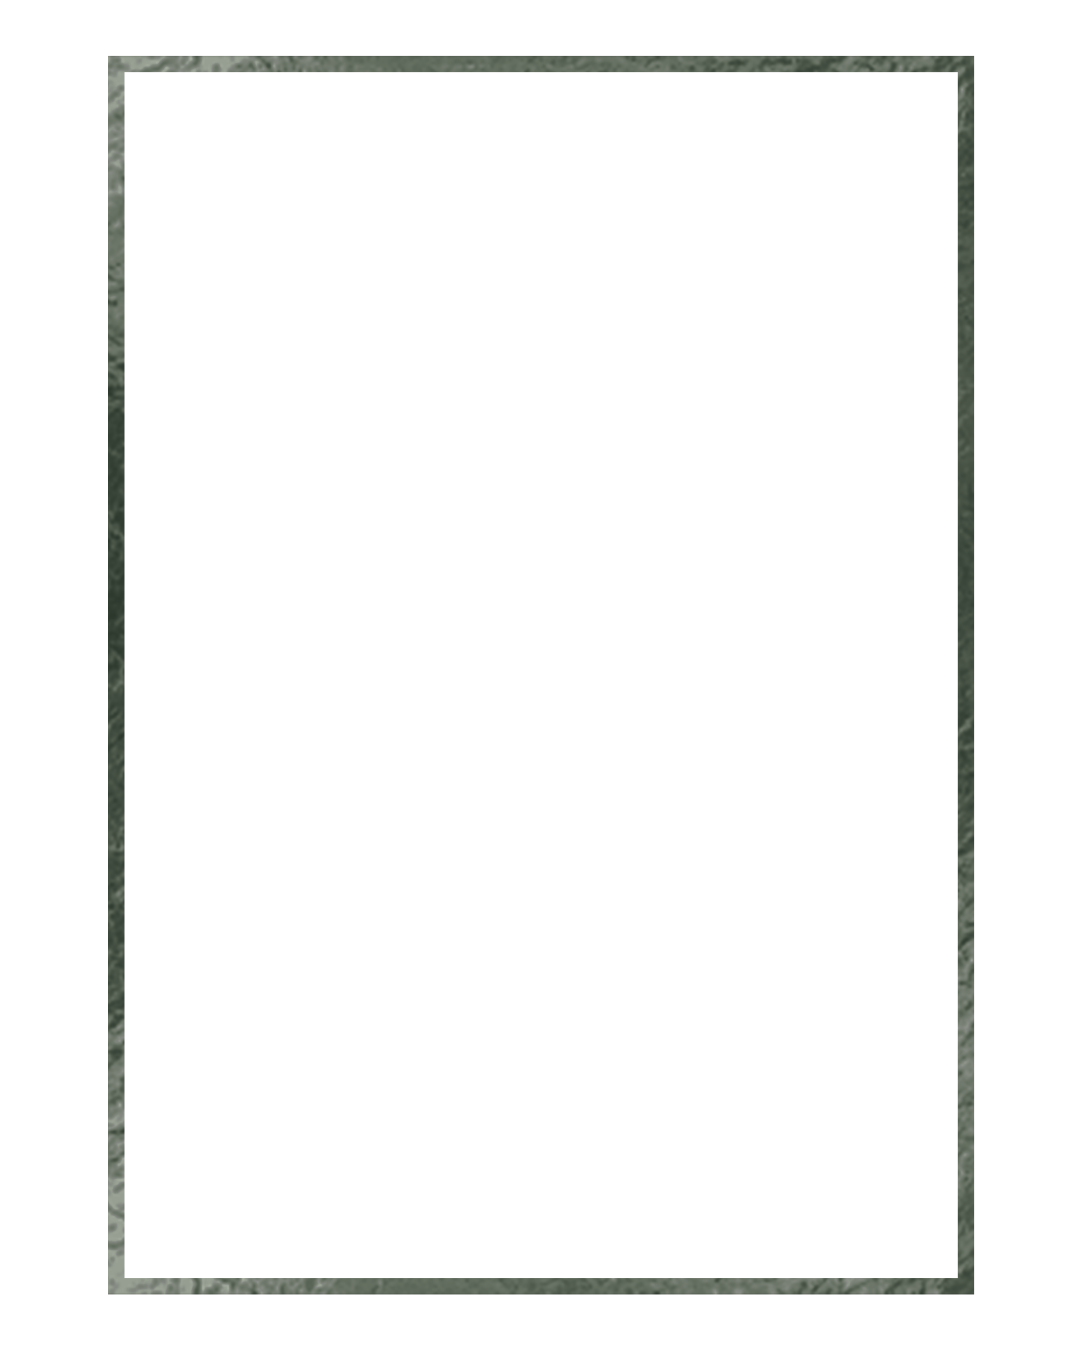
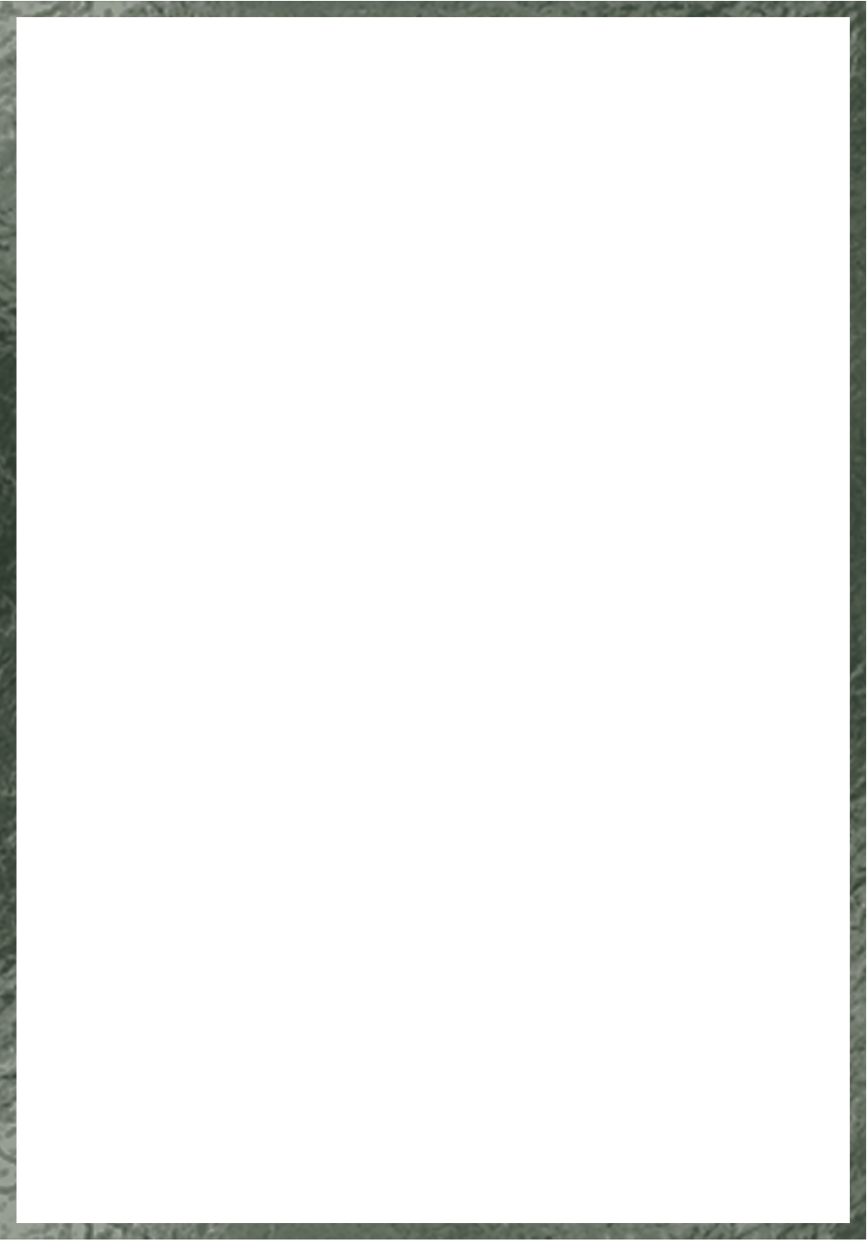
added changes to wishes page and botanical adjustments

Changed region(s): [[0.0, 0.0, 1.0, 1.0]]

diff --git a/src/app/wishes/page.jsx b/src/app/wishes/page.jsx
@@ -6,6 +6,7 @@ import WishesNav from '../../components/wishes/WishesNav'
 import WishesFooter from '../../components/wishes/WishesFooter'
 import Reveal from '../../components/wishes/Reveal'
 import PricingCard from '../../components/wishes/PricingCard'
+import { GoldDividerImg, DriftingSignatureSeed, StarAccent } from '../../components/wishes/WishesDecor'
 
 const WA_LINK = 'https://wa.me/27728393087'
 const EMAIL = 'mailto:dandelioncreat@outlook.com'
@@ -123,6 +124,9 @@ export default function WishesPage() {
           />
         </div>
 
+        <DriftingSignatureSeed size={80} style={{ top: 60, right: 40, opacity: 0.4 }} duration={16} />
+        <DriftingSignatureSeed size={54} style={{ bottom: 80, left: 30, opacity: 0.3 }} duration={13} delay={2} />
+
         <motion.div
           initial={{ opacity: 0, y: 20 }}
           animate={{ opacity: 1, y: 0 }}
@@ -148,6 +152,7 @@ export default function WishesPage() {
               before it&apos;s even happened.
             </span>
           </h1>
+          <GoldDividerImg width={120} center opacity={0.75} className="mb-7" />
           <p className="max-w-md mx-auto leading-relaxed mb-9 text-[15px] text-[#3A3A3A]/85">
             One link holds everything your guests need: RSVP, map, music, and more, all in one
             beautiful page, designed just for the two of you.
@@ -170,7 +175,11 @@ export default function WishesPage() {
                WhatsApp
             </a>
           </div>
-          <p className="text-sm text-[#8B7355]">From R1,250 per wedding · one payment, no subscriptions</p>
+          <p className="text-sm text-[#8B7355] flex items-center justify-center gap-2">
+            <StarAccent size={11} />
+            From R1,250 per wedding · one payment, no subscriptions
+            <StarAccent size={11} />
+          </p>
         </motion.div>
 
         <div
@@ -200,6 +209,7 @@ export default function WishesPage() {
           <h2 className="text-2xl mb-4 text-[#5C4A3A]" style={{ fontFamily: "'Cormorant Garamond', serif" }}>
             A single link. Everything your guests need.
           </h2>
+          <GoldDividerImg width={100} center opacity={0.7} className="mb-8" />
           <p className="text-[#3A3A3A]/80 leading-relaxed mb-10">
             Instead of paper, your invitation lives online, one elegant page your guests open on
             their phone. They RSVP right there. They see the map, the schedule, the dress code. No
@@ -227,6 +237,7 @@ export default function WishesPage() {
         <div className="max-w-4xl mx-auto">
           <Reveal className="text-center mb-12">
             <h2 className="text-2xl text-[#5C4A3A]" style={{ fontFamily: "'Cormorant Garamond', serif" }}>How it works</h2>
+            <GoldDividerImg width={90} center opacity={0.65} className="mt-4" />
           </Reveal>
           <div className="grid sm:grid-cols-2 lg:grid-cols-4 gap-8">
             {steps.map((s, i) => (
@@ -247,6 +258,7 @@ export default function WishesPage() {
         <div className="max-w-4xl mx-auto">
           <Reveal className="text-center mb-12">
             <h2 className="text-2xl text-[#5C4A3A]" style={{ fontFamily: "'Cormorant Garamond', serif" }}>What&apos;s included</h2>
+            <GoldDividerImg width={90} center opacity={0.65} className="mt-4" />
           </Reveal>
           <div className="grid sm:grid-cols-2 lg:grid-cols-3 gap-8">
             {features.map((f, i) => (
@@ -269,6 +281,7 @@ export default function WishesPage() {
         <div className="max-w-6xl mx-auto">
           <Reveal className="text-center mb-3">
             <h2 className="text-2xl text-[#5C4A3A]" style={{ fontFamily: "'Cormorant Garamond', serif" }}>Packages</h2>
+            <GoldDividerImg width={90} center opacity={0.65} className="mt-4" />
           </Reveal>
           <p className="text-center text-sm text-[#A8B89C] mb-14">
             One payment per wedding. No subscriptions, ever.
@@ -336,6 +349,7 @@ export default function WishesPage() {
         <div className="max-w-4xl mx-auto">
           <Reveal className="text-center mb-4">
             <h2 className="text-2xl text-[#5C4A3A]" style={{ fontFamily: "'Cormorant Garamond', serif" }}>Optional extras</h2>
+            <GoldDividerImg width={90} center opacity={0.65} className="mt-4" />
           </Reveal>
           <p className="text-center text-sm mb-14 max-w-lg mx-auto text-[#3A3A3A]/70">
             Add any of these to any package. Pick only what your wedding actually needs.
@@ -401,6 +415,7 @@ export default function WishesPage() {
             <h2 className="text-2xl text-[#5C4A3A]" style={{ fontFamily: "'Cormorant Garamond', serif" }}>
               Every invitation is different, because every couple is.
             </h2>
+            <GoldDividerImg width={90} center opacity={0.65} className="mt-4" />
           </Reveal>
           <div className="grid sm:grid-cols-2 gap-8">
             {portfolioExamples.map((p, i) => (
@@ -469,6 +484,7 @@ export default function WishesPage() {
         <div className="max-w-2xl mx-auto">
           <Reveal className="text-center mb-10">
             <h2 className="text-2xl text-[#5C4A3A]" style={{ fontFamily: "'Cormorant Garamond', serif" }}>Questions</h2>
+            <GoldDividerImg width={90} center opacity={0.65} className="mt-4 mb-2" />
           </Reveal>
           <div className="space-y-6">
             {faqs.map((f, i) => (
@@ -488,6 +504,8 @@ export default function WishesPage() {
         className="py-28 px-6 text-center relative overflow-hidden"
         style={{ background: 'linear-gradient(160deg,#7C8B68,#5C6B4E)' }}
       >
+        <DriftingSignatureSeed size={90} style={{ top: 24, right: 30, opacity: 0.18 }} duration={15} />
+        <DriftingSignatureSeed size={60} style={{ bottom: 30, left: 34, opacity: 0.14 }} duration={12} delay={1.5} />
         <Reveal>
           <p className="text-4xl mb-4 text-white opacity-90" style={{ fontFamily: "'Alex Brush', cursive" }}>
             seal it with a vow

diff --git a/src/components/wishes/InvitationTemplate.jsx b/src/components/wishes/InvitationTemplate.jsx
@@ -7,7 +7,7 @@ import EnvelopeIntro from './EnvelopeIntro'
 import {
   SeedCluster, DriftingSeed, GoldDividerImg, GoldStarImg, DriftingSignatureSeed,
   BotanicalCornerSprig, PhotoFrame, EucalyptusDividerImg, EucalyptusWreathImg,
-  EucalyptusGalleryFrame, EucalyptusQuoteMark, ScheduleIcon,
+  EucalyptusGalleryFrame, EucalyptusQuoteMark, ScheduleIcon, DriftingEucalyptusAccent,
   CoastalCornerShell, CoastalSeaglassImg, CoastalDividerImg, CoastalQuoteMark,
   CoastalGalleryFrame, DriftingCoastalAccent,
 } from './WishesDecor'
@@ -98,6 +98,12 @@ export default function InvitationTemplate({ theme, content }) {
             <DriftingCoastalAccent variant="seaglass" size={34} style={{ bottom: 44, left: 28, opacity: 0.35 }} duration={14} delay={2} />
           </>
         )}
+        {theme.showBotanicalAccents && (
+          <>
+            <DriftingEucalyptusAccent variant="right" size={110} style={{ top: 20, right: 24, opacity: 0.4 }} duration={17} />
+            <DriftingEucalyptusAccent variant="left" size={70} style={{ bottom: 36, left: 20, opacity: 0.3 }} duration={14} delay={2} />
+          </>
+        )}
         <div className="relative z-10 max-w-2xl mx-auto text-center px-6 text-white">
           <p className="text-sm opacity-90 mb-4">Together with their families, invite you to celebrate</p>
           <div className="w-16 h-px mx-auto mb-6" style={{ background: c.soft }} />
@@ -183,7 +189,7 @@ export default function InvitationTemplate({ theme, content }) {
         <section className="py-20 px-6 relative" style={{ background: c.bgAlt }}>
           <SeedCluster color={c.soft} size={50} style={{ position: 'absolute', top: 20, right: 24, opacity: 0.4, display: (theme.showBotanicalAccents || theme.showCoastalAccents) ? 'none' : 'block' }} />
           {theme.showBotanicalAccents && (
-            <BotanicalCornerSprig variant={1} size={90} style={{ top: 8, right: 12, opacity: 0.7 }} />
+            <BotanicalCornerSprig variant={1} size={260} style={{ top: -34, right: -34, opacity: 0.55 }} />
           )}
           {theme.showCoastalAccents && (
             <CoastalCornerShell size={80} style={{ top: 8, right: 12, opacity: 0.75 }} />
@@ -191,6 +197,28 @@ export default function InvitationTemplate({ theme, content }) {
           <Reveal className="text-center mb-12">
             <p className="uppercase tracking-[3px] text-xs mb-4" style={{ color: c.accent }}>Our Gallery</p>
             <h2 className="text-3xl" style={{ fontFamily: theme.serifFont, color: c.ink }}>Our Favourite Moments</h2>
+            {content.photoWallUrl && (
+              <div className="flex gap-3 justify-center mt-5">
+                <a
+                  href={`${content.photoWallUrl}?page=upload`}
+                  target="_blank"
+                  rel="noopener noreferrer"
+                  className="text-xs px-5 py-2.5 rounded-full font-medium text-white"
+                  style={{ background: c.accent }}
+                >
+                  Add your photos 📸
+                </a>
+                <a
+                  href={`${content.photoWallUrl}?page=gallery`}
+                  target="_blank"
+                  rel="noopener noreferrer"
+                  className="text-xs px-5 py-2.5 rounded-full font-medium border"
+                  style={{ borderColor: c.accent, color: c.accent }}
+                >
+                  View the live wall
+                </a>
+              </div>
+            )}
           </Reveal>
           <div className="max-w-4xl mx-auto grid grid-cols-2 md:grid-cols-4 gap-3">
             <Reveal className="col-span-2 row-span-2 relative">

diff --git a/src/components/wishes/WishesDecor.jsx b/src/components/wishes/WishesDecor.jsx
@@ -341,6 +341,23 @@ export function DriftingCoastalAccent({ variant = 'shell', size = 70, style = {}
   )
 }
 
+// Drifting eucalyptus sprig — the botanical equivalent of
+// DriftingCoastalAccent, used in place of the raw SVG dandelion drift.
+export function DriftingEucalyptusAccent({ variant = 'left', size = 90, style = {}, opacity = 0.5, duration = 15, delay = 0 }) {
+  const src = variant === 'right'
+    ? '/images/wishes/decorations/botanical/eucalyptus-corner-right.png'
+    : '/images/wishes/decorations/botanical/eucalyptus-corner-left.png'
+  return (
+    <motion.img
+      src={src}
+      alt=""
+      style={{ position: 'absolute', objectFit: 'contain', opacity, pointerEvents: 'none', ...style, width: size, height: size }}
+      animate={{ y: [0, -12, 0, -6, 0], x: [0, 6, -4, 5, 0], rotate: [0, 4, -3, 3, 0] }}
+      transition={{ duration, delay, repeat: Infinity, ease: 'easeInOut' }}
+    />
+  )
+}
+
 // Botanical-theme-only tiny sprig, used tucked beside the envelope wax seal
 export function EnvelopeSprigImg({ size = 60, style = {}, opacity = 1 }) {
   return (

diff --git a/src/lib/wishes/themes.js b/src/lib/wishes/themes.js
@@ -46,7 +46,10 @@ export const themes = {
     scriptFont: "var(--font-alex-brush), cursive",
     serifFont: "var(--font-cormorant), serif",
     seedOpacity: 0.3,
-    showDriftingSeeds: true,
+    // The raw SVG dandelion-spoke drift doesn't sit well next to the
+    // illustrated eucalyptus artwork — InvitationTemplate shows a
+    // drifting eucalyptus sprig in its place when showBotanicalAccents.
+    showDriftingSeeds: false,
     showBotanicalAccents: true,
   },
   'timeless-classic': {
